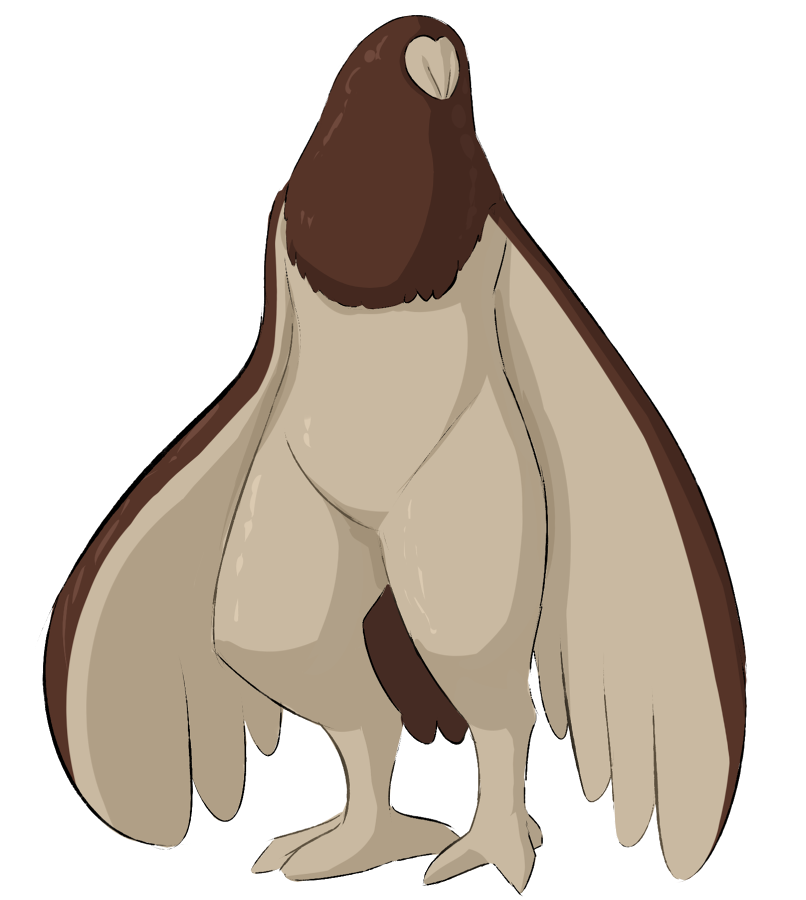
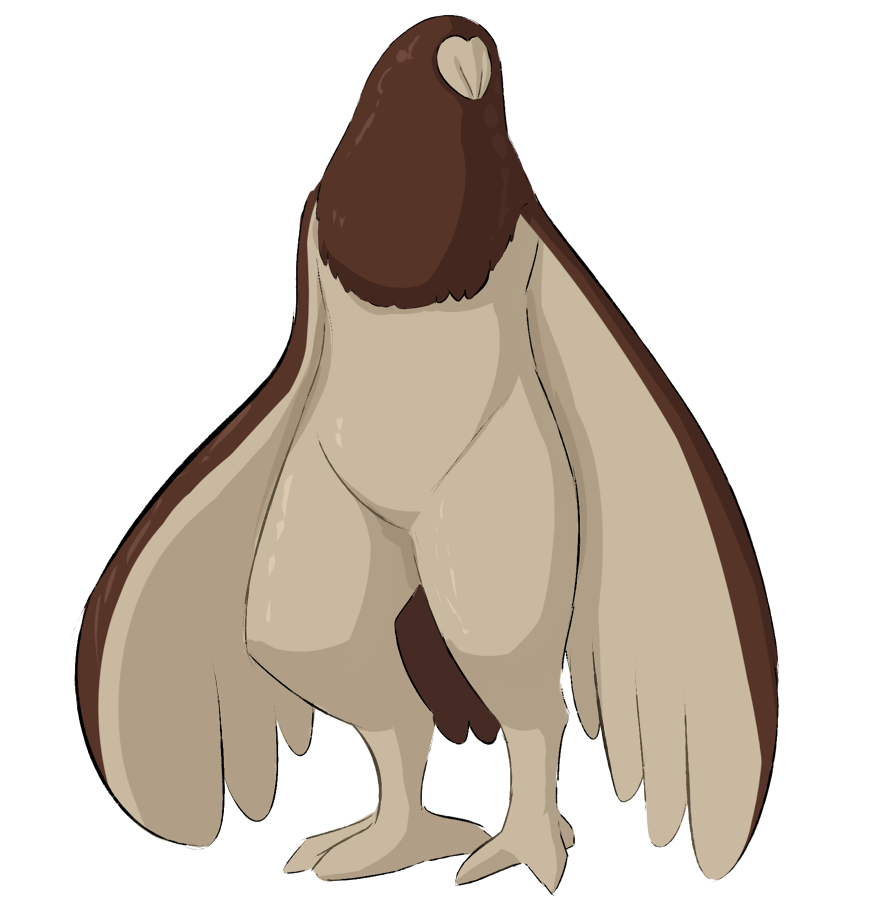
Inflatable Owluar
-Added inflatable owluar art

diff --git a/src/Pages/Guarians/Tabs/KnownGuarians/Guarians/owluar/owluar.tsx b/src/Pages/Guarians/Tabs/KnownGuarians/Guarians/owluar/owluar.tsx
@@ -6,6 +6,7 @@ import listEmblem from "./images/owluarListEmblem.png";
 import listIcon from "./images/owluarIcon.png";
 import ref from "./images/featherRef.png";
 import latex from "./images/owluarLatex.png";
+import inflatable from "./images/owluarInflatable.png";
 
 export const owluar: GuarianInfo = {
   name: "Owluar",
@@ -57,7 +58,11 @@ export const owluar: GuarianInfo = {
         material: GuarianMaterial.Rubber,
         ref: latex,
       },
+      {
+        material: GuarianMaterial.Inflatable,
+        ref: inflatable,
+      },
     ],
-    maxRefWidth: 806,
+    maxRefWidth: 870,
   },
 };
